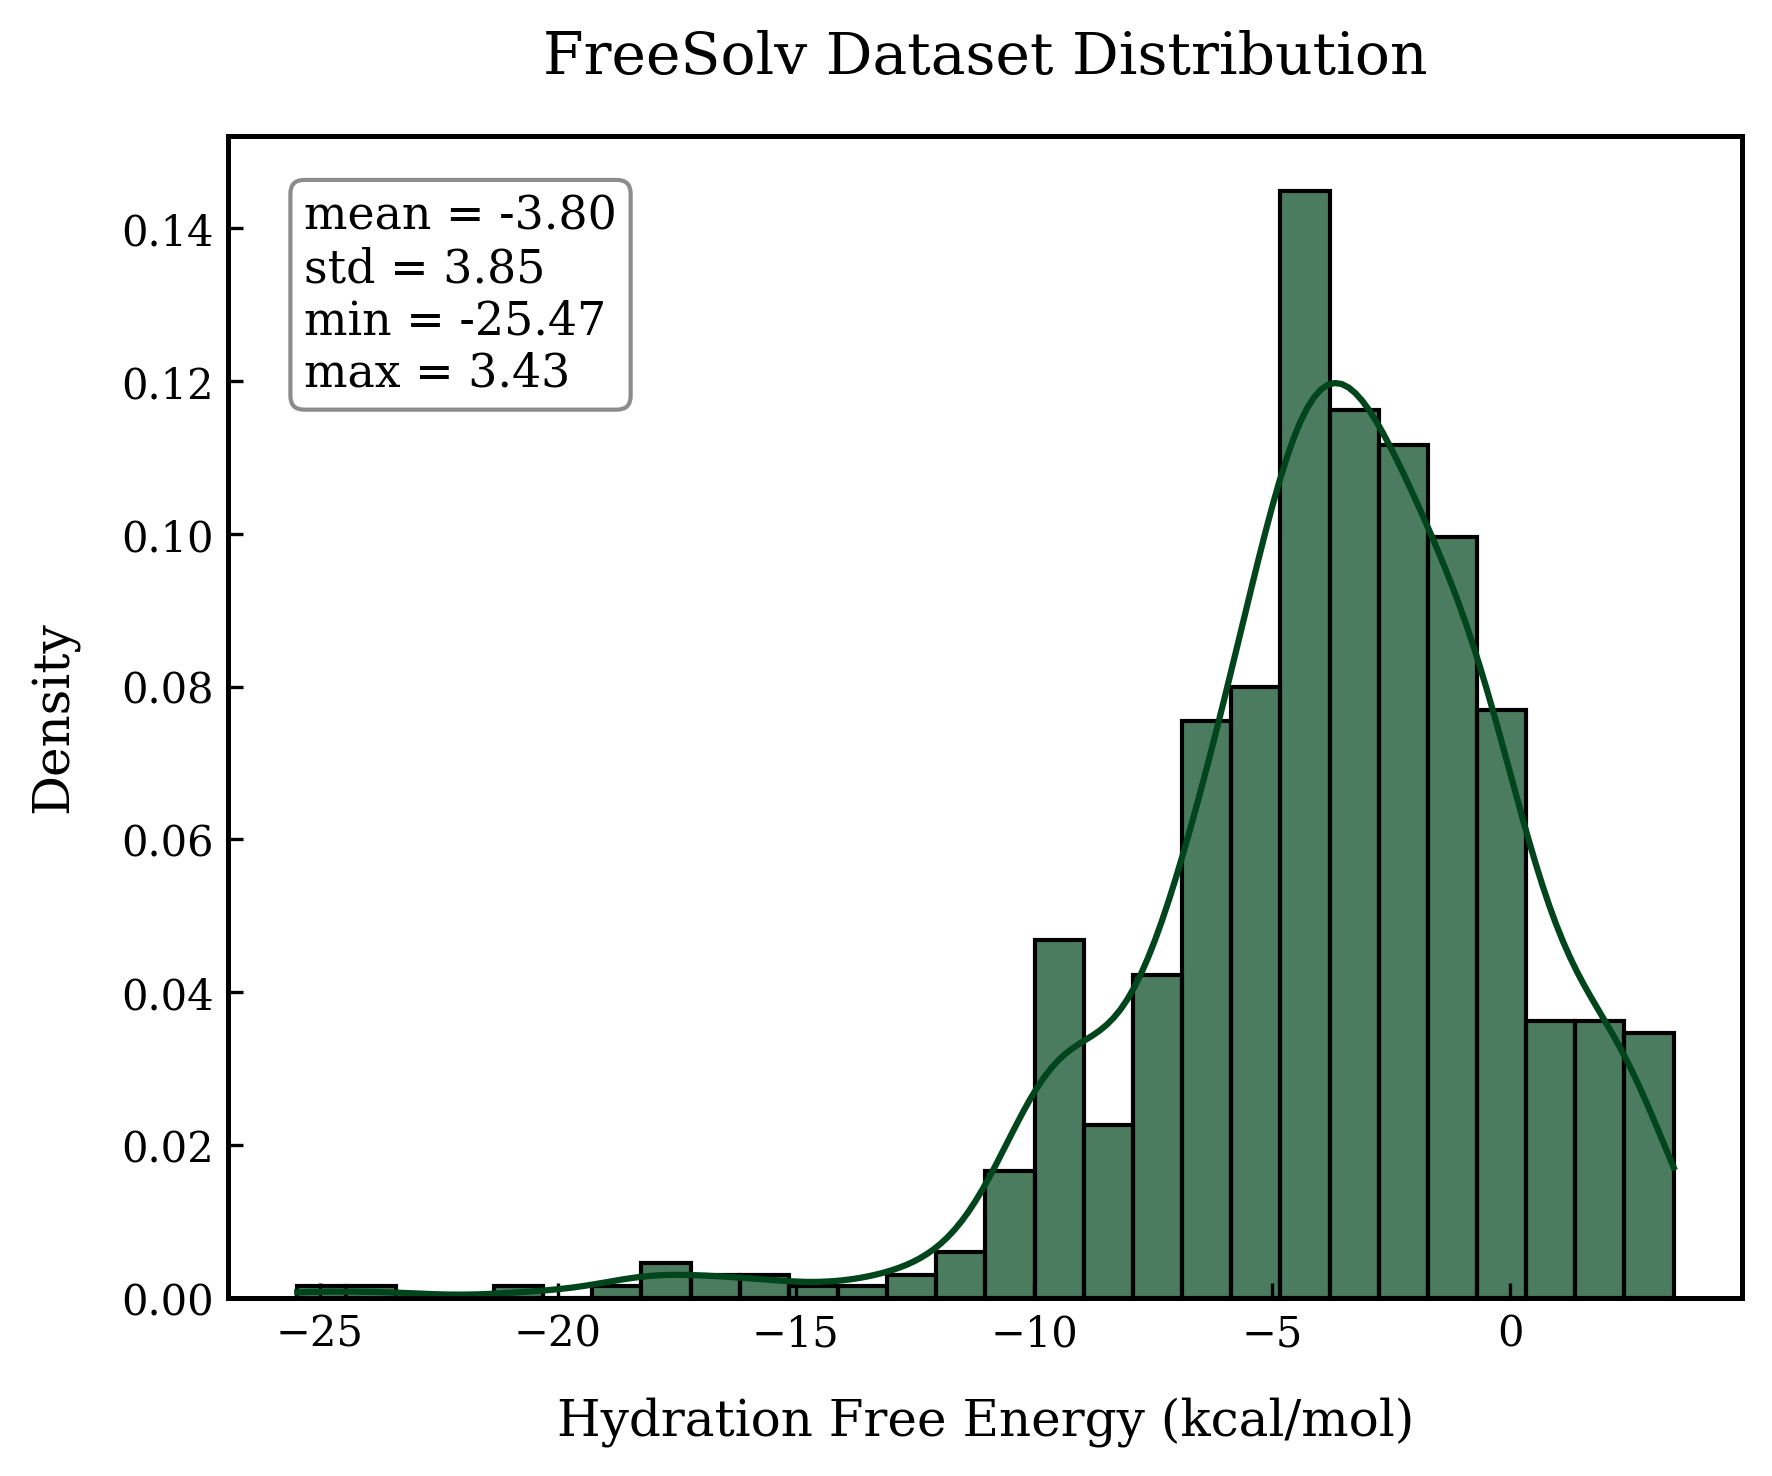
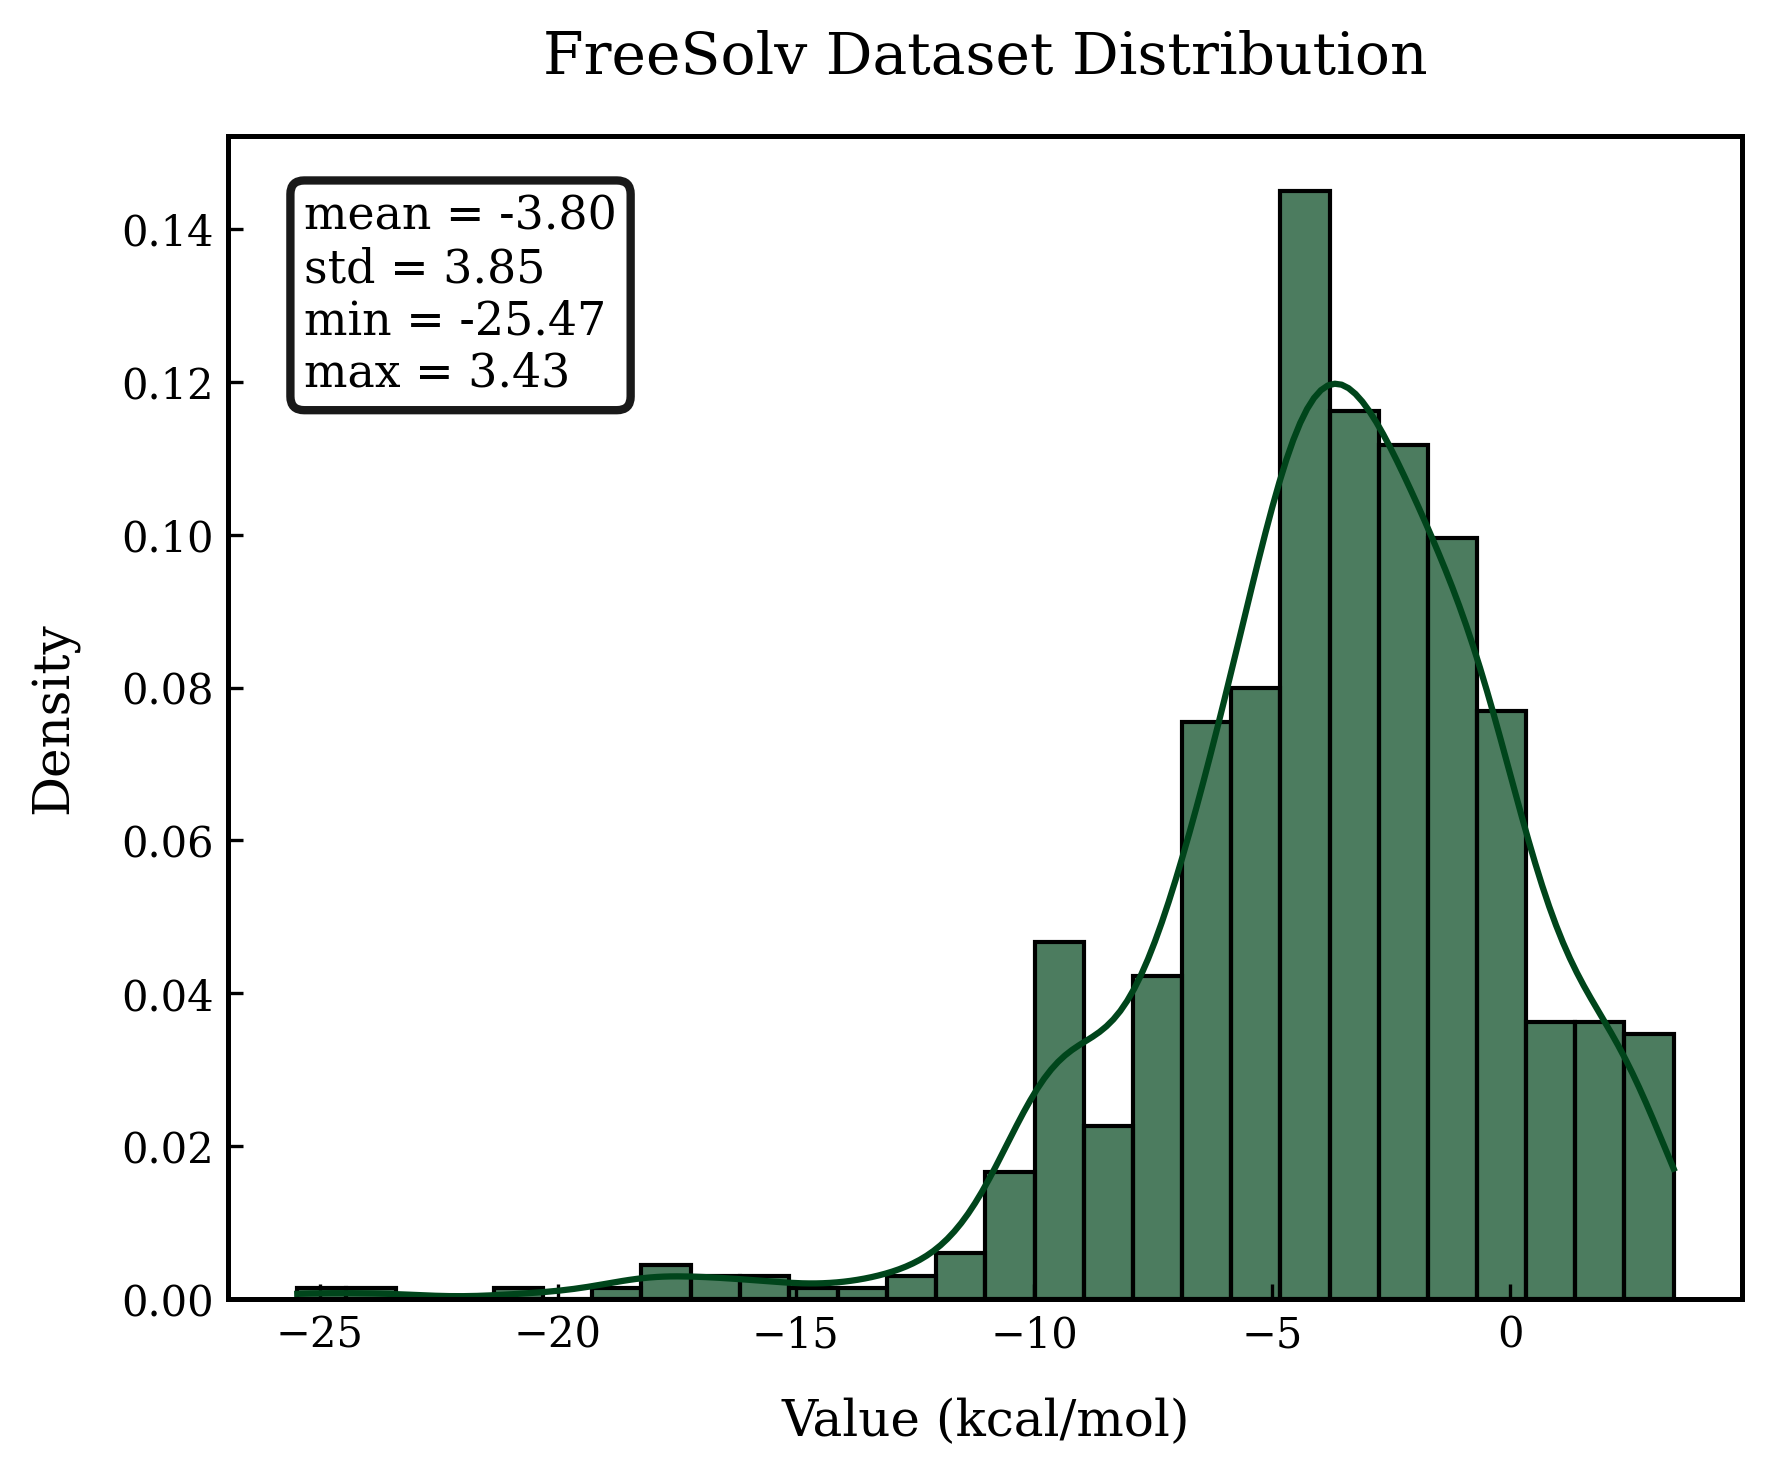
updat

Changed region(s): [[0.3104, 0.935, 0.807, 0.9973], [0.1552, 0.0935, 0.3725, 0.2805], [0.3414, 0.8415, 0.3725, 0.8726]]

diff --git a/makeGraph/dataveiw/lipo.py b/makeGraph/dataveiw/lipo.py
@@ -39,14 +39,14 @@ stats_text = (f"mean = {mean_val:.2f}\n"
               f"max = {max_val:.2f}")
 
 # 使用 bbox 参数创建圆角文本框
-props = dict(boxstyle='round', facecolor='white', alpha=0.9, edgecolor='gray')
+props = dict(boxstyle='round', facecolor='white', alpha=0.9, edgecolor='black', linewidth=2)
 ax.text(0.05, 0.95, stats_text, transform=ax.transAxes, fontsize=11,
         verticalalignment='top', horizontalalignment='left', bbox=props)
 
 # 6. 设置标签和标题
-ax.set_xlabel('Experimental logD', fontsize=12, labelpad=10)
+ax.set_xlabel('Value (logD)', fontsize=12, labelpad=10)
 ax.set_ylabel('Density', fontsize=12, labelpad=10)
-ax.set_title('Lipophilicity Distribution', fontsize=14, pad=15)
+ax.set_title('Lipo Dataset Distribution', fontsize=14, pad=15)
 
 # 7. 调整布局
 plt.tight_layout()

diff --git a/makeGraph/dataveiw/free.py b/makeGraph/dataveiw/free.py
@@ -36,7 +36,7 @@ stats_text = (f"mean = {mean_val:.2f}\n"
               f"min = {min_val:.2f}\n"
               f"max = {max_val:.2f}")
 
-props = dict(boxstyle='round', facecolor='white', alpha=0.9, edgecolor='gray')
+props = dict(boxstyle='round', facecolor='white', alpha=0.9, edgecolor='black', linewidth=2)
 
 # 左上角对齐
 ax.text(0.05, 0.95, stats_text, transform=ax.transAxes, fontsize=11,
@@ -44,7 +44,7 @@ ax.text(0.05, 0.95, stats_text, transform=ax.transAxes, fontsize=11,
 
 # 6. 设置标签和标题 (适配 FreeSolv)
 # 单位是 kcal/mol
-ax.set_xlabel('Hydration Free Energy (kcal/mol)', fontsize=12, labelpad=10)
+ax.set_xlabel('Value (kcal/mol)', fontsize=12, labelpad=10)
 ax.set_ylabel('Density', fontsize=12, labelpad=10)
 ax.set_title('FreeSolv Dataset Distribution', fontsize=14, pad=15)
 

diff --git a/makeGraph/dataveiw/esol.py b/makeGraph/dataveiw/esol.py
@@ -38,12 +38,12 @@ stats_text = (f"mean = {mean_val:.2f}\n"
               f"min = {min_val:.2f}\n"
               f"max = {max_val:.2f}")
 
-props = dict(boxstyle='round', facecolor='white', alpha=0.9, edgecolor='gray')
+props = dict(boxstyle='round', facecolor='white', alpha=0.9, edgecolor='black', linewidth=2)
 ax.text(0.05, 0.95, stats_text, transform=ax.transAxes, fontsize=11,
         verticalalignment='top', horizontalalignment='left', bbox=props)
 
 # 6. 设置标签 (适配 ESOL)
-ax.set_xlabel('Measured Log Solubility (log(mol/L))', fontsize=12, labelpad=10)
+ax.set_xlabel('Value (log(mol/L))', fontsize=12, labelpad=10)
 ax.set_ylabel('Density', fontsize=12, labelpad=10)
 ax.set_title('ESOL Dataset Distribution', fontsize=14, pad=15)
 
